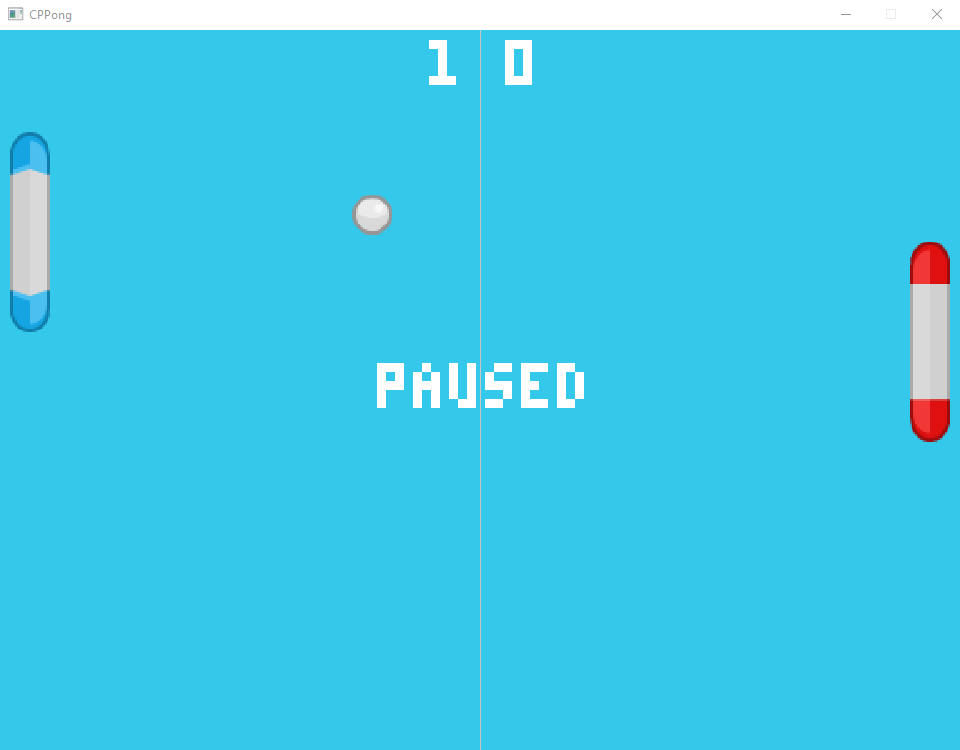
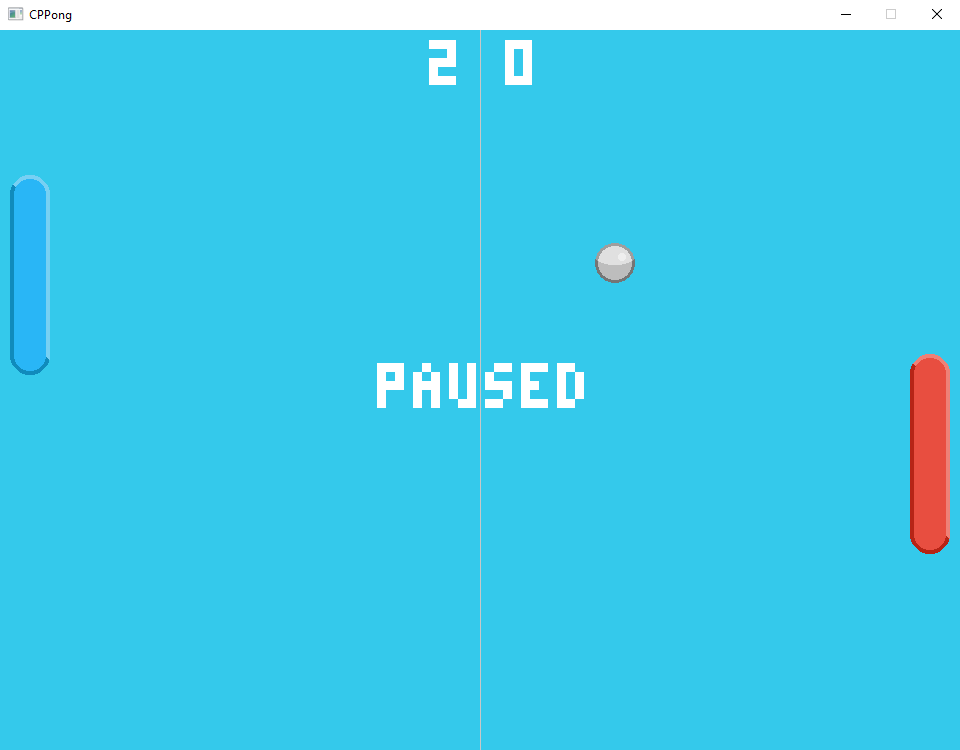
Add custom textures

diff --git a/CPPong/Game.cpp b/CPPong/Game.cpp
@@ -76,9 +76,9 @@ void Game::InitializeSDL()
 
 void Game::LoadResources()
 {
-	mPaddleTextures[0] = LoadTexture(mRenderer, "Resources/paddleBlu.png");
-	mPaddleTextures[1] = LoadTexture(mRenderer, "Resources/paddleRed.png");
-	mBallTexture = LoadTexture(mRenderer, "Resources/ballGrey.png");
+	mPaddleTextures[0] = LoadTexture(mRenderer, "Resources/paddle1.png");
+	mPaddleTextures[1] = LoadTexture(mRenderer, "Resources/paddle2.png");
+	mBallTexture = LoadTexture(mRenderer, "Resources/ball.png");
 	mBitFont = LoadFont("Resources/bit5x3.ttf", 72);
 	mSounds[0] = LoadAudio("Resources/pongblip1.wav");
 	mSounds[1] = LoadAudio("Resources/pongblip2.wav");
